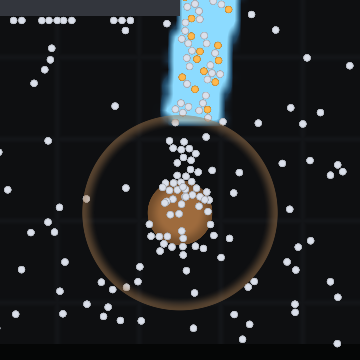
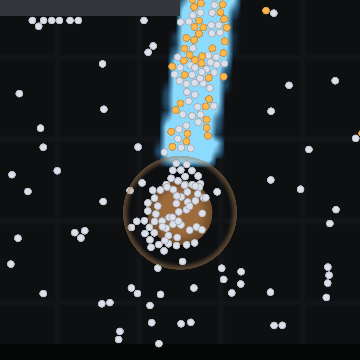
Proportional trail steering, and close the pheromone dead zone at the nest
Outbound ants still wandered once a road existed. Two causes, and the
second was diagnosed from the window rather than from the model.

**Steering was bang-bang.** A fixed turn either way, so the only way to
follow harder was to turn harder — which oscillates across the trail it
is trying to hold, and measurably got worse past a gain of about 3. It is
now proportional to the left/right sensor imbalance: tropotaxis. An ant
centred on a trail holds its line; one drifting off the edge gets a
correction proportional to how far off it is. With the oscillation gone
the gain can go far higher, and 14 measures best (41.2% of foragers
standing on a cell above k, against 21.9% before any of this).

Blended by how much pheromone is present, so with none the rule is still
exactly the correlated random walk of §3.2 and search is untouched.

**There was a 6 cm dead zone around the nest.** Returning ants stop
depositing the moment they cross the arrival radius, so no pheromone
reached the nest itself — and an ant setting out had nothing to follow
until it happened to wander out to where the trail began, which is why
departures looked random. The arrival radius is now 3.5 cm rather than
6 cm, which it can be because resting ants walk inward and no longer
block the approach. Verified over an hour: zero stranded ants, and the
colony reaches 1188 rather than 1124.

Note this is a real modelling limitation rather than a solved problem: a
[…]

diff --git a/README.md b/README.md
@@ -71,12 +71,26 @@ Everything in the pictures above grew from those first ants, by the ants' own
 rules. The colour scale is identical across every image, so a trail that looks
 stronger is stronger.
 
-And an hour in, the colony has grown into the trail it built — more ants because
-the trail works, a thicker trail because there are more ants:
+## How it ends
 
-![A thriving colony](docs/images/06-thriving.png)
+The source in this scenario is finite, and an hour is long enough to empty it.
+What follows is not scripted either. The crop stops filling, foragers come home
+with nothing, nest stock falls to zero, births stop, and the workers die of the
+energy they were spending to look. By 60 minutes the population is **0** and the
+trail is evaporating with nobody left to refresh it — down from a peak of 51 938
+to 27 820, on the half-life alone.
 
-Every image above is generated by `make gallery` from a fixed seed, so the
+![After the source ran out](docs/images/06-aftermath.png)
+
+*The corpses are the grey discs. Nothing removes them, because nothing in the
+colony knows how yet — necrophoresis is a later milestone, and until it exists
+the dead stay where they fell.*
+
+That is evaporation earning its place in the model. It is the only mechanism by
+which a colony can forget, and without it the trail to an exhausted source would
+persist for ever and the ants would keep walking to nothing.
+
+Every image here is generated by `make gallery` from a fixed seed, so the
 documentation cannot drift away from what the simulation does.
 
 ## Running it
